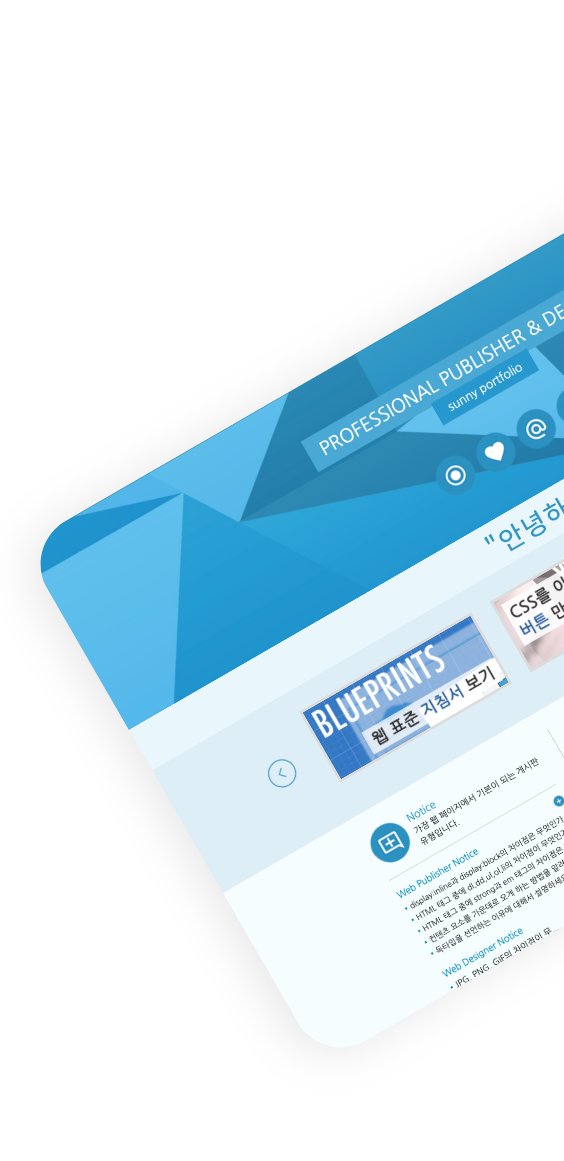
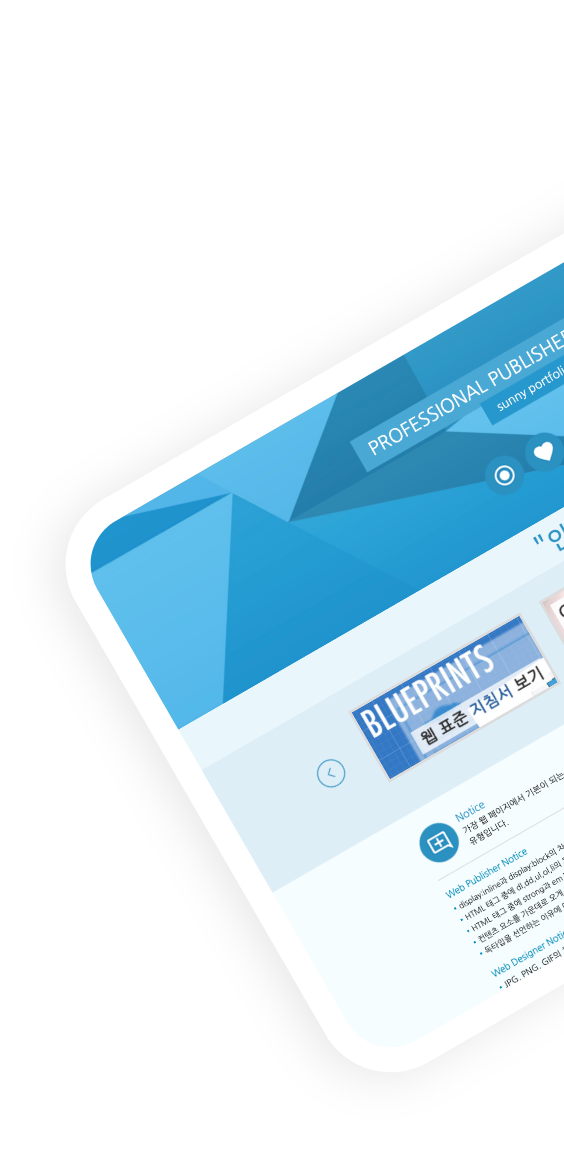
HTML, CSS: Work/Animation/Screen

Changed region(s): [[0.0603, 0.186, 1.0, 0.8372], [0.4823, 0.6512, 0.5124, 0.6822]]

diff --git a/index.html b/index.html
@@ -33,15 +33,15 @@
     <section id="page">
 
         <!-- Home -->
-        <section id="home">
+        <!-- <section id="home">
             <img src="img/profile.jpeg" alt="sunny profile photo" class="home_avatar">
             <h1 class="home_tit">HEllO</h1>
-            <h2 class="home_desc">안녕하세요 신입 퍼블리셔 이선희입니다.</h2>
+            <p class="home_desc">안녕하세요 신입 퍼블리셔 이선희입니다.</p>
             <button class="home_btn">
                 <i class="fa-solid fa-arrow-right-long"></i>
                 <span class="home_btn_text">Read more</span>
             </button>
-        </section>
+        </section> -->
 
     <!-- layout -->
     <section id="layout">
@@ -142,45 +142,92 @@
 
         <!-- Work -->
         <section id="work" class="work">
-                <div class="work_project">
-                    <img src="img/bg.svg" class="project_bg" alt="bg">
-                    <img src="img/project/Standard_2.png" class="project_img" alt="standard">
-                    <div class="work_tit">
-                        <h3>Web <br> Standard</h3>
+                <div class="work_grid_1">
+                    <div class="work_project">
+                        <img src="img/bg_1.svg" class="project_bg" alt="bg">
+                        <img src="img/project/Standard.png" class="project_img" alt="standard">
+                        <div class="work_tit">
+                            <h2>Web <br> Standard</h2>
+                        </div>
+                        <button class="work_btn">
+                            <i class="fa-solid fa-arrow-right-long"></i>
+                            <span class="work_btn_text">View</span>
+                        </button>
                     </div>
-                    <button class="work_btn">
-                        <i class="fa-solid fa-arrow-right-long"></i>
-                        <span class="work_btn_text">View</span>
-                    </button>
                 </div>
-            <!-- <div class="work_project">
-                <a href="https://github.com/suniiizz/portfolio" class="project" target="blank"></a>
-                <img src="img/project/Responsive.png" class="project_img" alt="Web Standard">
-                <div class="project_desc">
-                    <h3>Web Responsive</h3>
-                    <span>미디어 쿼리를 이용하여 만든 반응형 사이트입니다.</span>
+                <div class="work_grid_2">
+                    <div class="work_project">
+                        <img src="img/bg_2.svg" class="project_bg" alt="bg">
+                        <img src="img/project/Responsive.png" class="project_img" alt="standard">
+                        <div class="work_tit">
+                            <h2>Web <br> Responsive</h2>
+                        </div>
+                        <button class="work_btn">
+                            <i class="fa-solid fa-arrow-right-long"></i>
+                            <span class="work_btn_text">View</span>
+                        </button>
+                    </div>
                 </div>
-            </div>
-            <div class="work_project">
-                <a href="https://github.com/suniiizz/portfolio" class="project" target="blank"></a>
-                <img src="img/project/Standard.png" class="project_img" alt="Web Standard">
-                <div class="project_desc">
-                    <h3>Web Standard</h3>
-                    <span>웹 표준을 준수하여 만든 사이트입니다.</span>
+                <div class="work_grid_3">
+                    <div class="work_project">
+                        <img src="img/bg_3.svg" class="project_bg" alt="bg">
+                        <img src="img/project/ffroi.png" class="project_img" alt="standard">
+                        <div class="work_tit">
+                            <h2>ffroi</h2>
+                        </div>
+                        <button class="work_btn">
+                            <i class="fa-solid fa-arrow-right-long"></i>
+                            <span class="work_btn_text">View</span>
+                        </button>
+                    </div>
                 </div>
-            </div>
-            <div class="work_project">
-                <a href="https://github.com/suniiizz/portfolio" class="project" target="blank"></a>
-                <img src="img/project/Responsive.png" class="project_img" alt="Web Standard">
-                <div class="project_desc">
-                    <h3>Web Responsive</h3>
-                    <span>미디어 쿼리를 이용하여 만든 반응형 사이트입니다.</span>
+                <div class="work_grid_4">
+                    <div class="work_project">
+                        <img src="img/bg_3.svg" class="project_bg" alt="bg">
+                        <img src="img/project/ffroi.png" class="project_img" alt="standard">
+                        <div class="work_tit">
+                            <h2>ffroi</h2>
+                        </div>
+                        <button class="work_btn">
+                            <i class="fa-solid fa-arrow-right-long"></i>
+                            <span class="work_btn_text">View</span>
+                        </button>
+                    </div>
                 </div>
-            </div> -->
         </section>
 
+        <!-- Animation -->
+        <section id="animation">
+            <div class="animation_grid_1">
+                <div class="animation_work">
+                    <p>Circle</p>
+                </div>
+            </div>
+            <div class="animation_grid_2">
+                <div class="animation_work">
+                    <p>Mouse</p>
+                </div>
+            </div>
+            <div class="animation_grid_3">
+                <div class="animation_work">
+                    <p>Hover</p>
+                </div>
+            </div>
+        </section>
+
+        <!-- Screen -->
+        <div id="screen">
+            <div class="screen_grid">
+                <div class="screen_mode">
+                    <p>
+                        Screen <br>mode
+                    </p>
+                </div>
+            </div>
+        </div>
+
         <!-- Contact -->
-        <section id="contact">
+        <!-- <section id="contact">
             <h1 class="contact_tit">Let's talk</h1>
             <h2 class="contact_email">tptpmm@gamil.com</h2>
             <div class="contact_link">
@@ -194,7 +241,7 @@
                     2022 sunny - All rights reserved.
                 </p>
             </div>
-        </section>
+        </section> -->
     </section>
     </section>
     

diff --git a/style.css b/style.css
@@ -86,7 +86,7 @@ h1 {
 }
 
 h2 {
-    font-size: var(--font-regular);
+    font-size: var(--font-medium);
     font-weight: var(--weght-semi-bold);
     color: var(--color-black);
     margin: 12px 0;
@@ -164,6 +164,7 @@ p {
 
 /* layout */
 #layout {
+    margin-top: 20px;
     height: 1200px;
     position: relative;
     transition: height .2s ease;
@@ -179,7 +180,7 @@ p {
     width: 250px;
     height: 250px;
     border-radius: 50%;
-    border: 5px solid var(--color-white);
+    border: 10px solid var(--color-white);
 }
 
 .home_tit {
@@ -224,7 +225,6 @@ p {
     left: 16px;
     padding: 36px 42px;
     border-radius: 32px;
-    box-shadow: transparent 0px 0px 0px 2px inset;
 }
 
 .about img {
@@ -238,7 +238,6 @@ p {
 }
 
 /* Skill */
-
 .skill {
     display: flex;
     position: absolute;
@@ -256,14 +255,13 @@ p {
 
 .skill h2 {
     font-family: 'Moranga Bold', sans-serif;
-    font-size: var(--font-medium);
     margin: 0;
 }
 
 .skill p {
     font-size: var(--font-small);
     padding-bottom: 15px;
-    border-bottom: 2px solid var(--color-grey);
+    border-bottom: 2px solid var(--color-light-grey);
     width: 100%;
 }
 
@@ -283,12 +281,42 @@ p {
 }
 
 /* Work */
-.work {
+.work_grid_1 {
     position: absolute;
     top: 16px;
     left: 904px;
     width: 280px;
     height: 576px;
+    overflow: hidden;
+    border-radius: 32px;
+}
+
+.work_grid_2 {
+    position: absolute;
+    top: 312px;
+    left: 608px;
+    width: 280px;
+    height: 576px;
+    overflow: hidden;
+    border-radius: 32px;
+}
+
+.work_grid_3 {
+    position: absolute;
+    top: 312px;
+    left: 16px;
+    width: 576px;
+    height: 280px;
+    overflow: hidden;
+    border-radius: 32px;
+}
+
+.work_grid_4 {
+    position: absolute;
+    top: 904px;
+    left: 608px;
+    width: 576px;
+    height: 280px;
     overflow: hidden;
     border-radius: 32px;
 }
@@ -302,13 +330,11 @@ p {
 
 .work_tit {
     position: absolute;
-    top: 20px;
-    left: 30px;
+    padding: 20px 0 0 30px;
 }
 
-.work_tit h3 {
+.work_tit h2 {
     margin: 0;
-    font-size: var(--font-medium);
     color: var(--color-white);
     font-family: 'Moranga Bold', sans-serif;
 }
@@ -325,7 +351,6 @@ p {
     top: 0px;
     height: 100%;
     width: 100%;
-    object-fit: cover;
 }
 
 .work_btn {
@@ -349,4 +374,67 @@ p {
     transform: rotate(-45deg);
 }
 
+/* Animation */
+#animation {
+    display: flex;
+}
 
+.animation_grid_1 {
+    position: absolute;
+    top: 16px;
+    left: 608px;
+    width: 280px;
+    height: 280px;
+    background: var(--color-white);
+    border-radius: 32px;
+}
+
+.animation_grid_2 {
+    position: absolute;
+    top: 904px;
+    left: 16px;
+    width: 280px;
+    height: 280px;
+    background: var(--color-white);
+    border-radius: 32px;
+}
+.animation_grid_3 {
+    position: absolute;
+    top: 904px;
+    left: 312px;
+    width: 280px;
+    height: 280px;
+    background: var(--color-white);
+    border-radius: 32px;
+}
+
+#animation p {
+    font-family: 'Moranga Bold', sans-serif;
+    font-size: var(--font-medium);
+    padding: 20px 0 0 30px;
+}
+
+/* Screen */
+#screen {
+    position: absolute;
+    top: 608px;
+    left: 904px;
+    width: 280px;
+    height: 280px;
+    background-color: var(--color-white);
+    border-radius: 32px;
+}
+
+#screen p {
+    font-family: 'Moranga Bold', sans-serif;
+    font-size: var(--font-medium);
+    padding: 20px 0 0 30px;
+}
+
+
+
+
+/* Contact */
+#contact {
+    position: absolute;
+}
